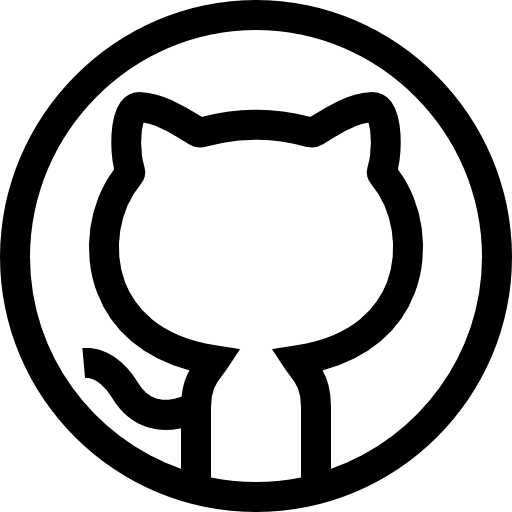
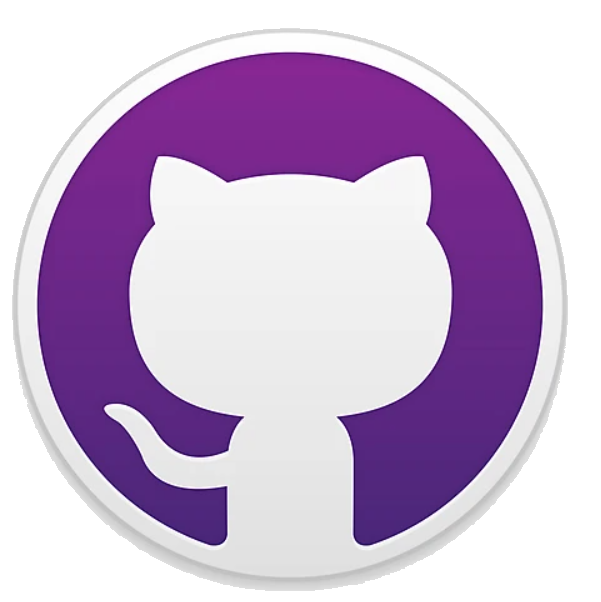
acomodando un poco la imagenes

diff --git a/src/views/management.js b/src/views/management.js
@@ -32,7 +32,7 @@ export function rendermanagement() {
             
             <div class="tech-logos-container">
                 <div class="tech-item">
-                    <img src="/img/HTML.jpg" alt="HTML5 Logo" class="tech-logo">
+                    <img src="/img/HTML.png" alt="HTML5 Logo" class="tech-logo">
                     <span>HTML5</span>
                 </div>
                 <div class="tech-item">

diff --git a/src/styles/body.css b/src/styles/body.css
@@ -276,8 +276,8 @@ footer.footer-bottom {
 
 /* Efectos Hover para Redes */
 .iconoa_footer .github:hover {
-    background: #24292e;
-    border-color: #24292e;
+    background: #b718df;
+    border-color: #b718df;
     transform: translateY(-2px);
 }
 
